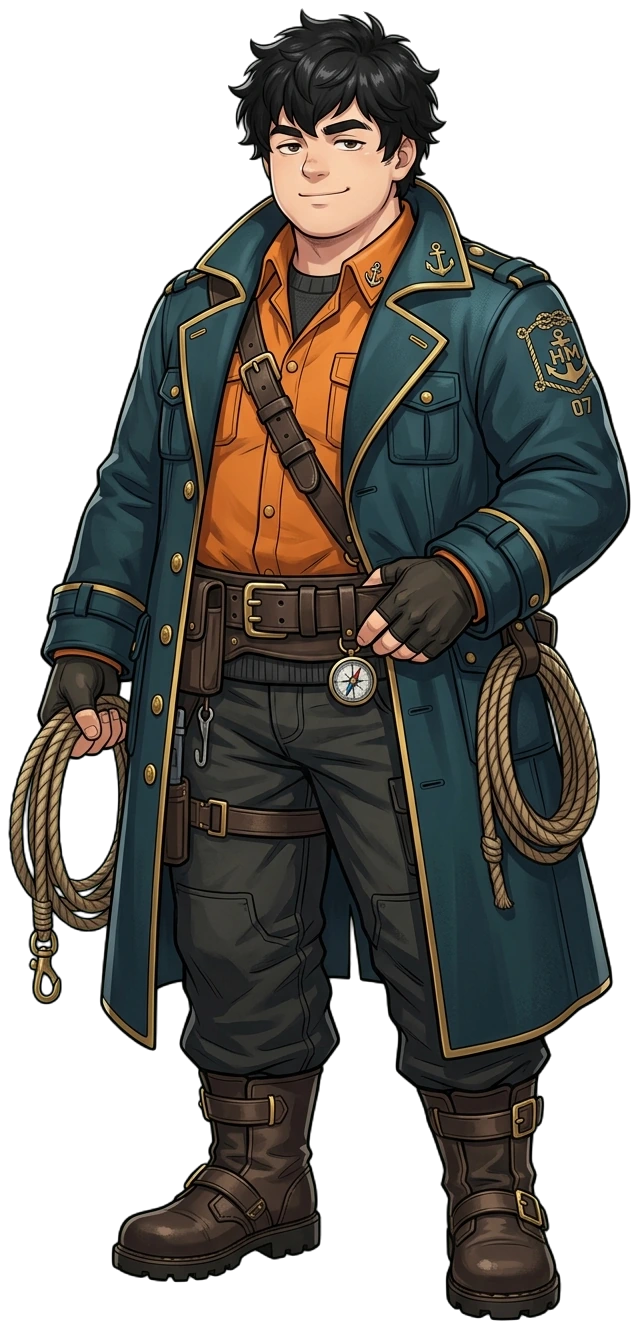
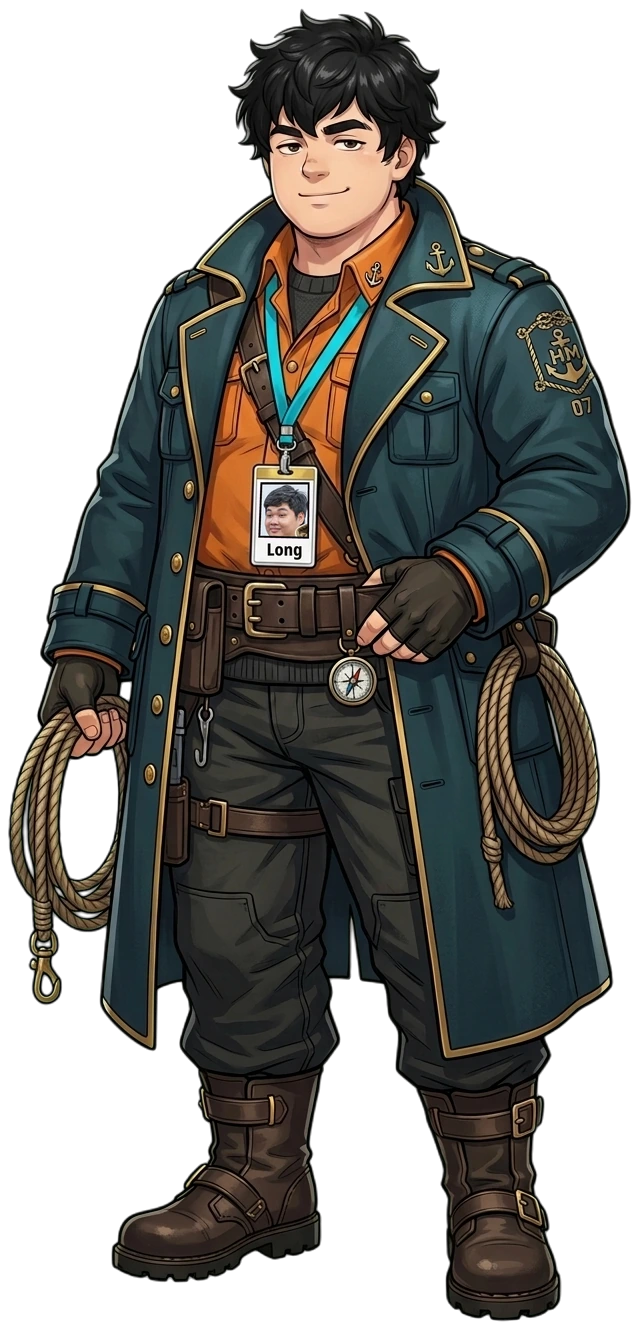
feat(hub): Long's badge on the Bến character and a night harbour backdrop (#308)
- Regenerate the character with a lanyard and an ID badge; the badge carries Long's
  real photo (warped into a flat magenta square) and his name, composited locally.
- A generated night-harbour backdrop (modern city mixed with fantasy) replaces the
  stand-in sky and sea.
- Docs: the Harbour art workflow in assets/AGENTS.md.

diff --git a/apps/hub/src/screens/kit/Harbour.module.css b/apps/hub/src/screens/kit/Harbour.module.css
@@ -36,20 +36,22 @@
   color: var(--text-dim);
 }
 
-/* Stand-in harbour art: dusk sky, the sea below a horizon, the Hub's Emblem where the art will stand. */
+/* The night harbour (generated), cropped to the screen with the quay at the bottom left. */
 .backdrop {
   position: fixed;
   inset: 0;
   z-index: -1;
   overflow: hidden;
-  background: linear-gradient(
-    180deg,
-    #10202e 0,
-    #1d3a4c 44%,
-    #2c5466 58%,
-    #0a1b26 58.4%,
-    #06121a 100%
-  );
+  background: #06121a;
+}
+
+.scene {
+  position: absolute;
+  inset: 0;
+  width: 100%;
+  height: 100%;
+  object-fit: cover;
+  object-position: 50% 78%;
 }
 
 .backdrop::after {
@@ -57,38 +59,8 @@
   position: absolute;
   inset: 0;
   background:
-    linear-gradient(270deg, rgb(11 13 16 / 0.85) 0, rgb(11 13 16 / 0.4) 40%, transparent 62%),
-    linear-gradient(0deg, rgb(11 13 16 / 0.7) 0, transparent 30%);
-}
-
-.sun {
-  position: absolute;
-  left: 22%;
-  top: 58%;
-  width: calc(40 * var(--dvh));
-  aspect-ratio: 1;
-  translate: -50% -50%;
-  border-radius: 50%;
-  background: radial-gradient(
-    circle,
-    rgb(255 194 52 / 0.55),
-    rgb(255 194 52 / 0.08) 45%,
-    transparent 70%
-  );
-}
-
-.sea {
-  position: absolute;
-  inset: 58.4% 0 0;
-  background: repeating-linear-gradient(180deg, rgb(46 200 230 / 0.1) 0 1px, transparent 1px 14px);
-  background-size: 100% 28px;
-  animation: swell 6s linear infinite;
-}
-
-@keyframes swell {
-  to {
-    background-position: 0 28px;
-  }
+    linear-gradient(270deg, rgb(11 13 16 / 0.8) 0, rgb(11 13 16 / 0.35) 40%, transparent 62%),
+    linear-gradient(0deg, rgb(11 13 16 / 0.65) 0, rgb(11 13 16 / 0.3) 25%, transparent 45%);
 }
 
 /* The character stands centred in the free column left of the panels. */

diff --git a/apps/hub/src/screens/kit/Harbour.tsx b/apps/hub/src/screens/kit/Harbour.tsx
@@ -11,6 +11,7 @@ import {
 } from '@tabler/icons-react';
 import { type CSSProperties, useState } from 'react';
 import harbourMaster from '../../harbour-art/harbour-master.webp';
+import harbourNight from '../../harbour-art/harbour-night.webp';
 import { HUB_EMBLEM, ISLANDS } from '../../islands.js';
 import { Icon, OnlineDot, Sheet } from '../../kit/index.js';
 import { hoverSound, playSound } from '../../sound/index.js';
@@ -74,7 +75,7 @@ function Locked({ panel }: { panel: LockedPanel }) {
 
 /**
  * `/dev/kit#harbour`, dev only: a throwaway prototype of the Bến for review (#308), after Arknights'
- * lobby. The left half is left for art (a stand-in here); a tilted cluster of panels on the right
+ * lobby. The backdrop and the character on the left are generated art (Long wears his own badge); a tilted cluster of panels on the right
  * leads to each function. Chợ, Kho, Bảng vàng and Đình are locked shells.
  */
 export function Harbour() {
@@ -85,8 +86,7 @@ export function Harbour() {
   return (
     <main className={styles.harbour}>
       <div className={styles.backdrop} aria-hidden="true">
-        <div className={styles.sun} />
-        <div className={styles.sea} data-loop />
+        <img className={styles.scene} src={harbourNight} alt="" draggable={false} />
       </div>
       <img className={styles.character} src={harbourMaster} alt="" draggable={false} />
 

diff --git a/assets/AGENTS.md b/assets/AGENTS.md
@@ -18,12 +18,18 @@
     `caro()` in `scripts/splash.mjs` projects every point through `project`; tune the view with
     `away` (camera distance: smaller is stronger perspective), `pitch` (look-down angle) and `yaw`,
     then run `npm run splash -- caro` and check the sheet stays inside the frame, right of 40%.
-- **Character art** (the Bến's standing character, `apps/hub/src/harbour-art/harbour-master.webp`)
-  is the one place AI image generation is allowed, because it is the owner's friend drawn as an
-  Arknights-style operator. Describe the person in words and never send their photo to the
-  generator. Run `agy --print` with the prompt, asking for a flat `#00FF00` background and no green
-  on the character, then key the green out into transparency and trim it. Originals are in
-  `assets/shared/images/` (`harbour-master-raw.png` is the generated image, `harbour-master.png` the cut-out).
+- **Harbour art** (`apps/hub/src/harbour-art/`: `harbour-master.webp`, the Bến's standing character,
+  and `harbour-night.webp`, its night backdrop) is the one place AI image generation is allowed. The
+  character is the owner's friend Long drawn as an Arknights-style operator.
+  - Describe the person in words and never send their photo to the generator. Run `agy --print`
+    with the prompt (it saves the PNG to the path the prompt names); for a later change, give it the
+    previous generated image as the reference so the face and costume stay the same.
+  - The character is generated on flat `#00FF00` with no green on him. His ID badge is generated
+    with a flat `#FF00FF` square where the photo goes and a blank white strip below it. Measure the
+    square's corners, warp Long's real photo (`assets/shared/images/Long-look-at-u.jpg`) into it,
+    write his name in the strip, then key the green out into transparency and trim.
+  - Originals are in `assets/shared/images/`: `harbour-master-raw.png` (generated),
+    `harbour-master.png` (cut-out with the photo), `harbour-night-raw.png` (the backdrop).
 - Pick what looks and sounds best for a card/board game in the app's style.
 - Keep a third-party license file next to assets whose license requires one.
 - Use only free, clearly allowed assets, and never sell anything.

diff --git a/apps/hub/AGENTS.md b/apps/hub/AGENTS.md
@@ -16,7 +16,7 @@ src/games.ts       Games the Hub ships: `games/*/manifest.ts` + `dist/version.js
                    `soon` ones are left out
 src/islands.ts     The Islands' names, order and Emblems, and `HUB_EMBLEM` (ids are `ISLANDS` in `@xomdao/sdk`)
 src/island-art/    Each Island's splash art (`<island>.png`, 20:9), drawn by `scripts/splash.mjs`
-src/harbour-art/   The Bến's character (`harbour-master.webp`, transparent): see "Character art" in `assets/AGENTS.md`
+src/harbour-art/   The Bến's character (`harbour-master.webp`, transparent) and night backdrop (`harbour-night.webp`): see "Harbour art" in `assets/AGENTS.md`
 src/emblems/       The Hub's (`hub.svg`) and each Island's (`<island>.svg`) Emblem, same contract as a Game's;
                    `tools/hub-assets` tests them
 src/kit/           Button, CutPanel, Chip, TextField, Dialog, Emblem (inlines an Emblem's SVG), Sheet, Tabs, Choice, Toggle, Slider, Menu, Toast, Icon,
@@ -50,7 +50,7 @@ vite.config.ts     Dev proxy, /games/<id>/ in dev, copies each Game's dist/ (min
 - Check screens at 844×390, 667×375 and 1280×720. `/dev/kit` shows the kit at the phone sizes, at both
   graphics levels and with less motion; `/dev/kit#motion` is the approved motion prototype (#295), still the
   reference for the loading screens. `/dev/kit#emblems` shows every Emblem: the Hub's, the Islands' (#302) and the Games' (#303). `/dev/kit#sea` is the approved Sea chart prototype (#306), with stand-in splash art,
-  glass three-layer cards (`GameTiles`) and a rules button that opens `RulesPager`. `/dev/kit#harbour` is the Bến prototype (#308, in review), with a generated character and a stand-in backdrop.
+  glass three-layer cards (`GameTiles`) and a rules button that opens `RulesPager`. `/dev/kit#harbour` is the Bến prototype (#308, in review), with a generated character and backdrop.
 - Before writing client HTML/CSS/JS, look it up with the `modern-web-guidance` skill.
 
 ## Conventions
